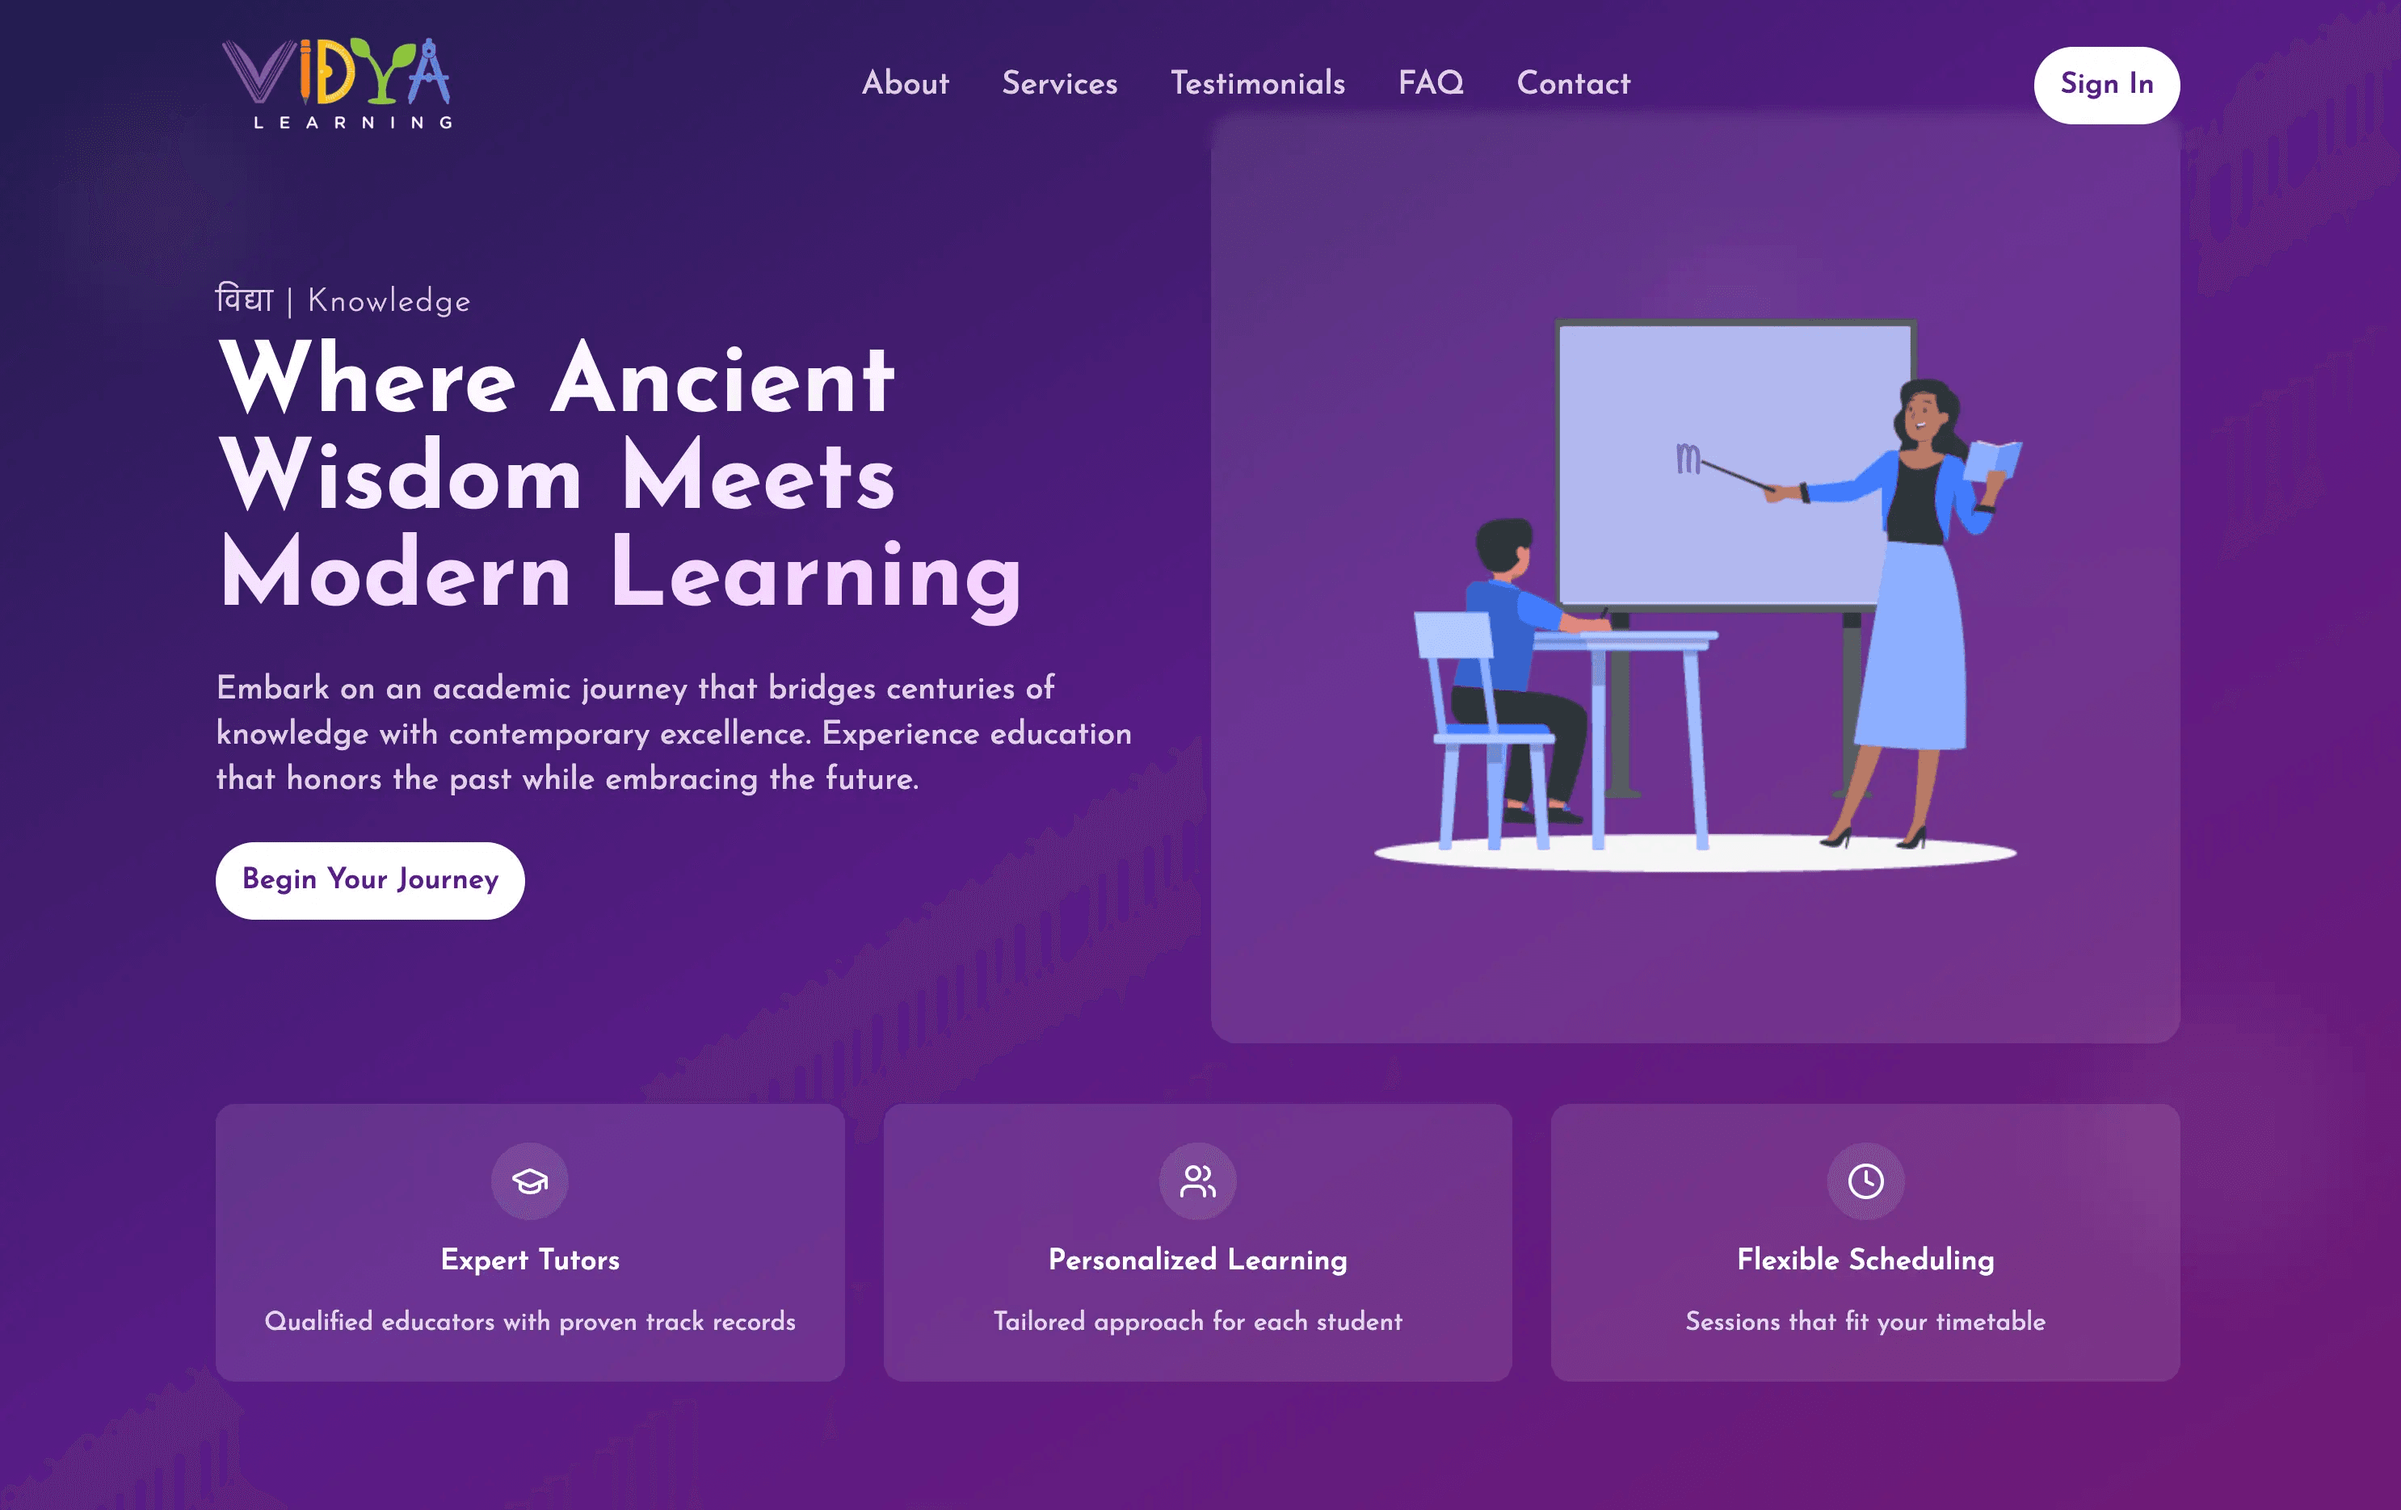
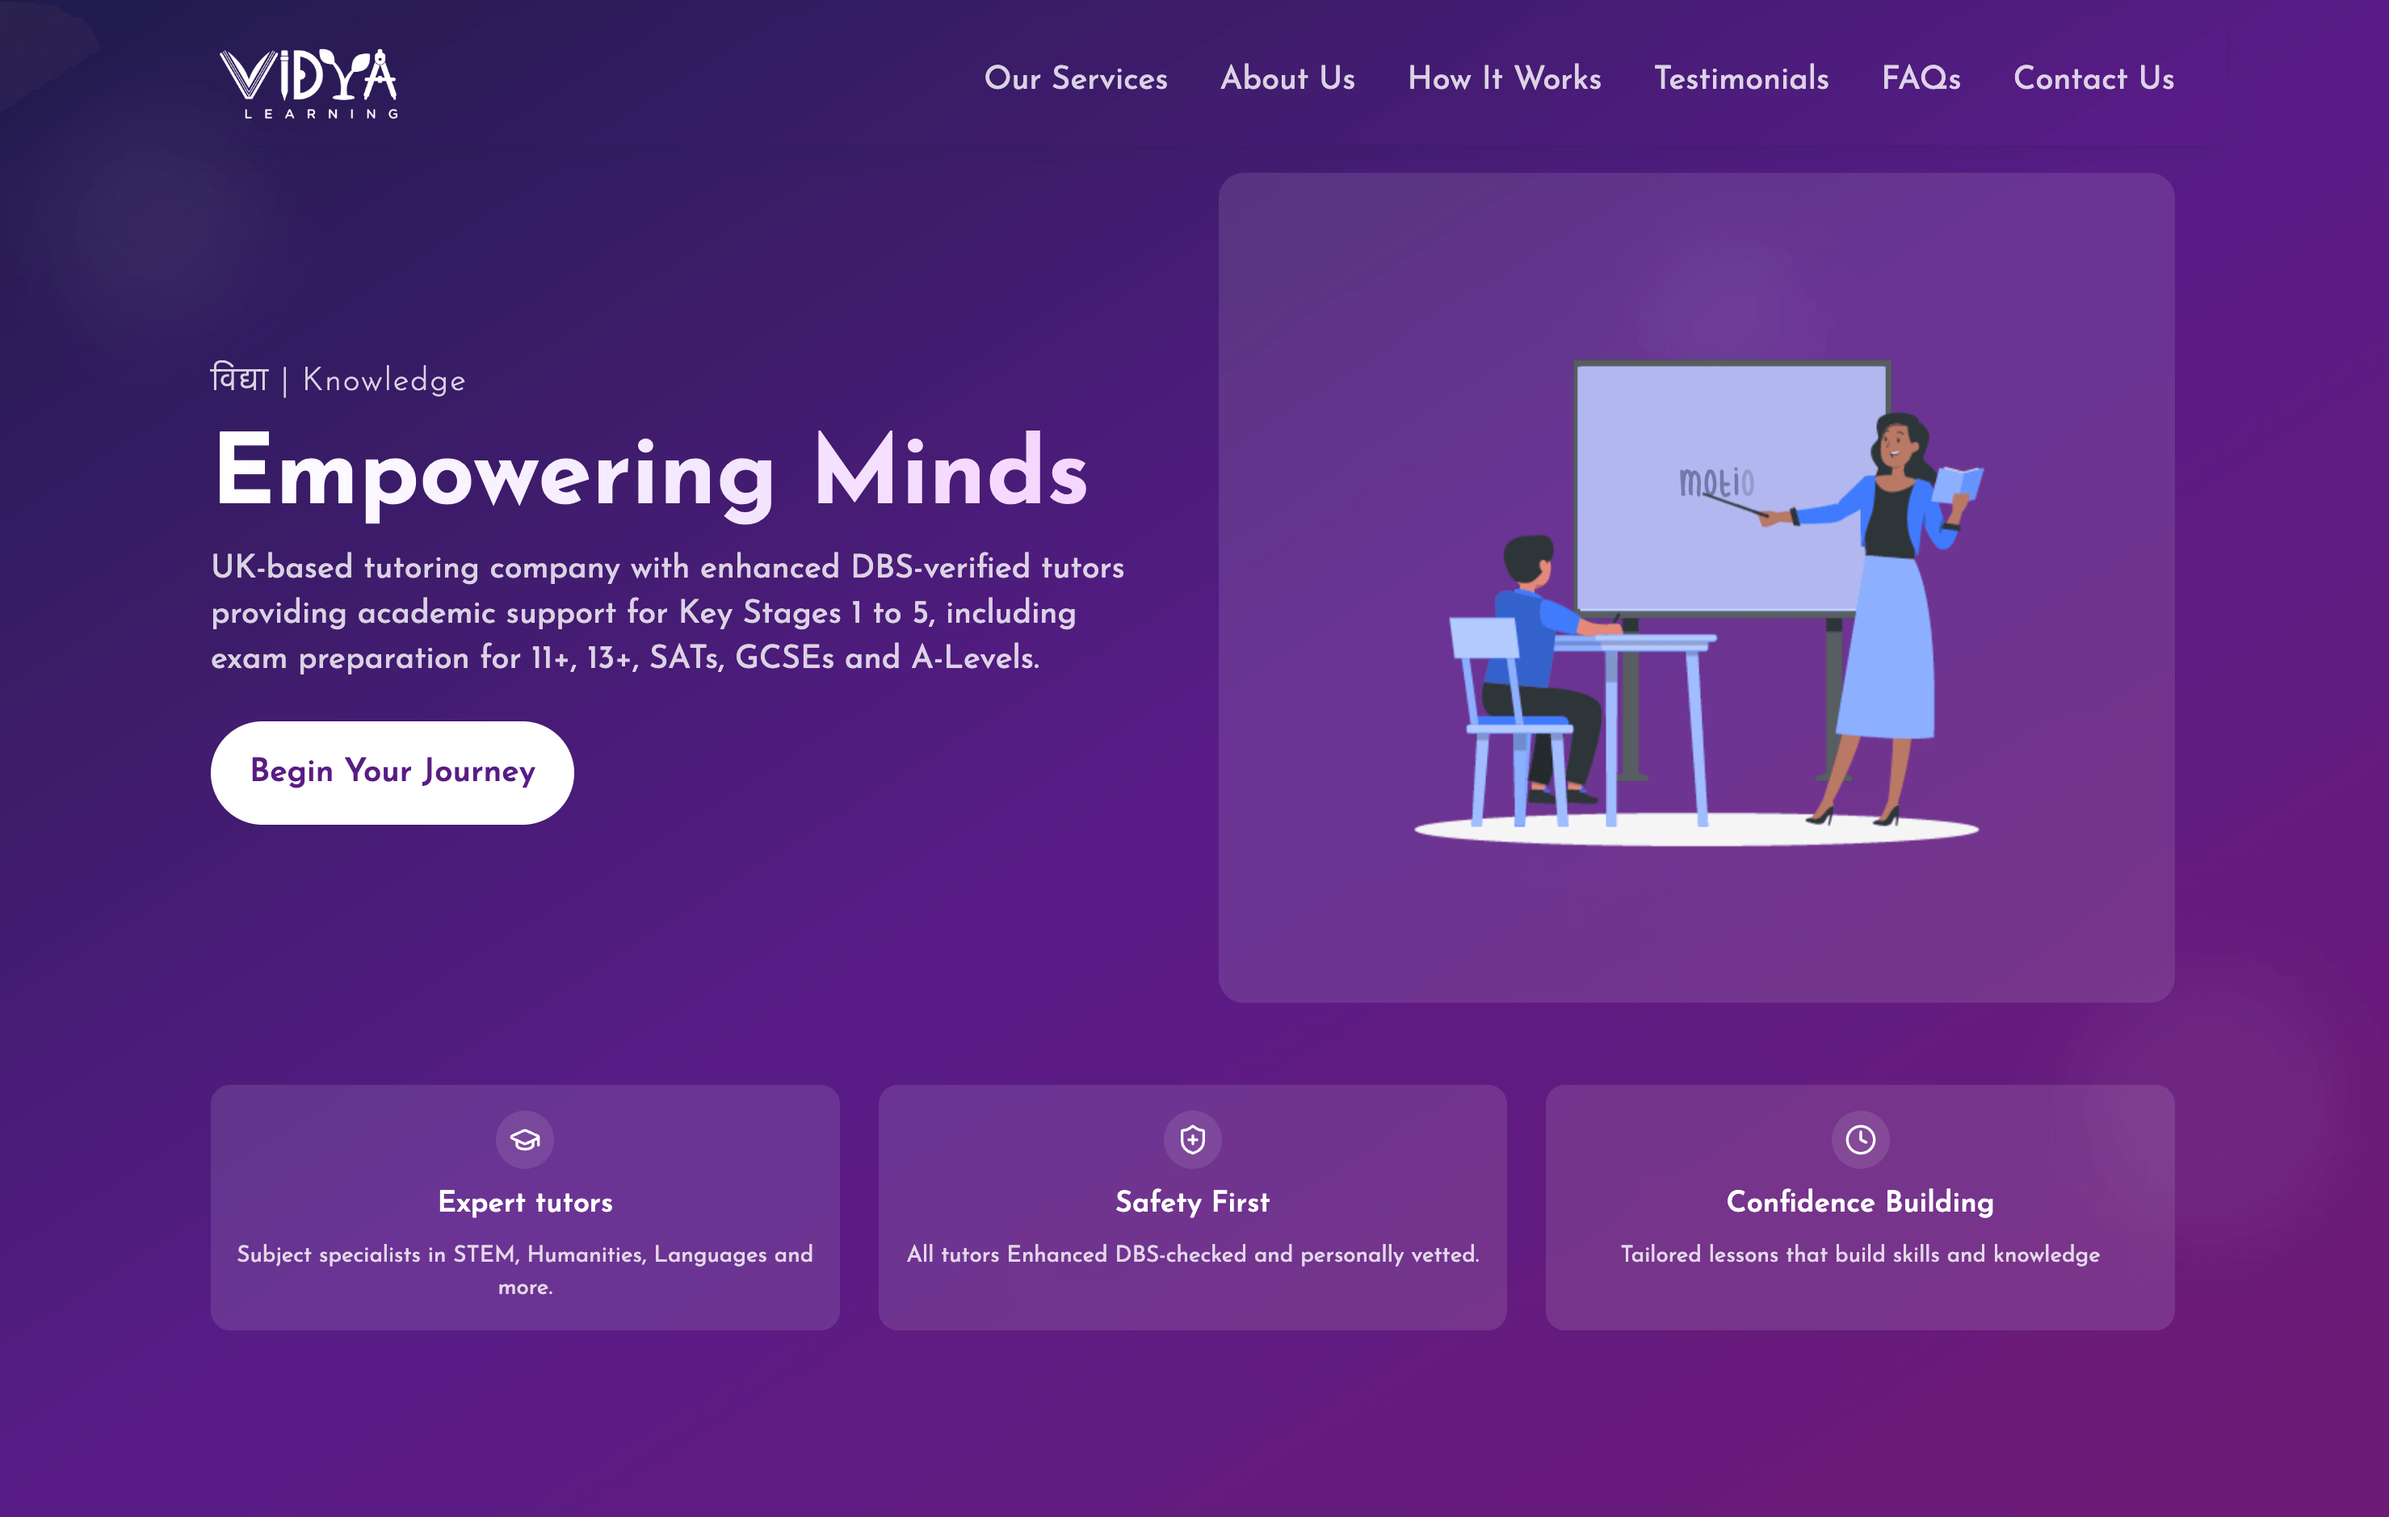
added new project, fixed testimonials

diff --git a/src/components/sections/Testimonials.tsx b/src/components/sections/Testimonials.tsx
@@ -39,7 +39,7 @@ const testimonials = [
     name: "David Martinez",
     role: "CEO, Vino Nero",
     content:
-      "Cromo Studios were absolutely fantastic! From start to finish, they went above and beyond to make sure everything was perfect. They kept me updated at every stage, ensuring I always knew what was happening. Their attention to detail and commitment to quality really stood out. The final product exceeded my expectations, and I couldn’t be happier with the results. Their professionalism, creativity, and dedication made the whole process smooth.",
+      "Cromo Studios were absolutely fantastic! From start to finish, they went above and beyond to make sure everything was perfect. They kept me updated at every stage, ensuring I always knew what was happening. Their attention to detail and commitment to quality really stood out. The final product exceeded my expectations, and I couldn't be happier with the results. Their professionalism, creativity, and dedication made the whole process smooth.",
   },
 ];
 
@@ -47,34 +47,41 @@ const TestimonialCard = ({
   testimonial,
 }: {
   testimonial: (typeof testimonials)[0];
-}) => (
-  <div className="group h-[280px] hover:h-auto transition-[height] duration-500 ease-in-out border-2 border-white/10 hover:border-white/20 rounded-xl p-6 bg-black flex flex-col">
-    <div className="w-5 h-5 flex-shrink-0 mb-4">
-      <Quote className="w-full h-full text-white/20" />
-    </div>
-    <div className="relative flex-1 min-h-0">
-      <div className="relative h-full">
-        <p className="text-white/70 text-sm leading-relaxed line-clamp-6 group-hover:line-clamp-none">
-          {testimonial.content}
-        </p>
-        <div className="absolute bottom-0 left-0 right-0 h-24 bg-gradient-to-t from-black to-transparent group-hover:opacity-0 transition-opacity duration-500" />
+}) => {
+  const [isExpanded, setIsExpanded] = useState(false);
+
+  return (
+    <div
+      onClick={() => setIsExpanded(!isExpanded)}
+      className={`group h-[280px] ${isExpanded ? 'h-auto' : ''} transition-[height] duration-500 ease-in-out border-2 border-white/10 hover:border-white/20 rounded-xl p-6 bg-black flex flex-col cursor-pointer`}
+    >
+      <div className="w-5 h-5 flex-shrink-0 mb-4">
+        <Quote className="w-full h-full text-white/20" />
+      </div>
+      <div className="relative flex-1 min-h-0">
+        <div className="relative h-full">
+          <p className={`text-white/70 text-sm leading-relaxed ${isExpanded ? 'line-clamp-none' : 'line-clamp-6'}`}>
+            {testimonial.content}
+          </p>
+          <div className={`absolute bottom-0 left-0 right-0 h-24 bg-gradient-to-t from-black to-transparent transition-opacity duration-500 ${isExpanded ? 'opacity-0' : 'opacity-100'}`} />
+        </div>
+      </div>
+      <div className="flex items-center gap-3 mt-6">
+        <div className="w-[2px] h-4 bg-white/10" />
+        <div>
+          <h4 className="text-white/90 font-medium text-sm">
+            {testimonial.name}
+          </h4>
+          <p className="text-white/40 text-xs">{testimonial.role}</p>
+        </div>
       </div>
     </div>
-    <div className="flex items-center gap-3 mt-6">
-      <div className="w-[2px] h-4 bg-white/10" />
-      <div>
-        <h4 className="text-white/90 font-medium text-sm">
-          {testimonial.name}
-        </h4>
-        <p className="text-white/40 text-xs">{testimonial.role}</p>
-      </div>
-    </div>
-  </div>
-);
+  );
+};
 
 const Testimonials = () => {
   const [[page, direction], setPage] = useState([0, 0]);
-  const itemsPerPage = 3;
+  const itemsPerPage = window.innerWidth < 768 ? 1 : 3;
   const totalPages = Math.ceil(testimonials.length / itemsPerPage);
 
   const paginate = (newDirection: number) => {
@@ -130,14 +137,14 @@ const Testimonials = () => {
         >
           <div className="flex items-center gap-2 mb-4">
             <div className="h-px w-8 bg-white/20"></div>
-            <span className="text-white/50 uppercase tracking-wider text-sm font-medium">
+            <span className="text-white/50 uppercase tracking-wider text-xs sm:text-sm font-medium">
               Testimonials
             </span>
           </div>
-          <h2 className="text-5xl font-bold text-white mb-6 tracking-tight">
+          <h2 className="text-3xl sm:text-4xl md:text-5xl font-bold text-white mb-4 sm:mb-6 tracking-tight">
             Client Success Stories
           </h2>
-          <p className="text-white/70 text-lg">
+          <p className="text-white/70 text-base sm:text-lg">
             Don&apos;t just take our word for it. Here&apos;s what our clients
             have to say about working with us.
           </p>
@@ -164,7 +171,7 @@ const Testimonials = () => {
                   x: { type: "spring", stiffness: 300, damping: 30 },
                   opacity: { duration: 0.2 },
                 }}
-                className="absolute w-full grid grid-cols-1 md:grid-cols-3 gap-6"
+                className="absolute w-full grid grid-cols-1 md:grid-cols-3 gap-4 sm:gap-6"
                 drag="x"
                 dragConstraints={{ left: 0, right: 0 }}
                 dragElastic={1}
@@ -188,26 +195,25 @@ const Testimonials = () => {
           </div>
 
           {/* Navigation */}
-          <div className="flex justify-center items-center gap-8 mt-12">
+          <div className="flex justify-center items-center gap-4 sm:gap-8 mt-8 sm:mt-12">
             <button
               onClick={() => paginate(-1)}
               disabled={page === 0}
-              className="p-2 rounded-full border-2 border-white/10 hover:border-white/20 disabled:opacity-50 disabled:cursor-not-allowed transition-all duration-300"
+              className="p-1.5 sm:p-2 rounded-full border-2 border-white/10 hover:border-white/20 disabled:opacity-50 disabled:cursor-not-allowed transition-all duration-300"
               aria-label="Previous testimonials"
             >
-              <ChevronLeft className="w-5 h-5 text-white/70" />
+              <ChevronLeft className="w-4 h-4 sm:w-5 sm:h-5 text-white/70" />
             </button>
 
-            <div className="flex gap-2">
+            <div className="flex gap-1.5 sm:gap-2">
               {[...Array(totalPages)].map((_, index) => (
                 <button
                   key={index}
                   onClick={() => setPage([index, index > page ? 1 : -1])}
-                  className={`w-2 h-2 rounded-full transition-all duration-300 ${
-                    index === page
-                      ? "bg-white/70 w-6"
-                      : "bg-white/20 hover:bg-white/40"
-                  }`}
+                  className={`w-1.5 sm:w-2 h-1.5 sm:h-2 rounded-full transition-all duration-300 ${index === page
+                    ? "bg-white/70 w-4 sm:w-6"
+                    : "bg-white/20 hover:bg-white/40"
+                    }`}
                   aria-label={`Go to testimonial page ${index + 1}`}
                 />
               ))}
@@ -216,10 +222,10 @@ const Testimonials = () => {
             <button
               onClick={() => paginate(1)}
               disabled={page === totalPages - 1}
-              className="p-2 rounded-full border-2 border-white/10 hover:border-white/20 disabled:opacity-50 disabled:cursor-not-allowed transition-all duration-300"
+              className="p-1.5 sm:p-2 rounded-full border-2 border-white/10 hover:border-white/20 disabled:opacity-50 disabled:cursor-not-allowed transition-all duration-300"
               aria-label="Next testimonials"
             >
-              <ChevronRight className="w-5 h-5 text-white/70" />
+              <ChevronRight className="w-4 h-4 sm:w-5 sm:h-5 text-white/70" />
             </button>
           </div>
         </div>

diff --git a/src/components/sections/Portfolio.tsx b/src/components/sections/Portfolio.tsx
@@ -22,16 +22,16 @@ const projects = [
     image: "/portfolio/vidyalearning.png",
     altText: "Vidya Learning Platform - Online Tutoring Website",
     tags: ["Next.js", "Tailwind CSS", "Supabase", "Framer Motion"],
-    liveUrl: "https://vidya-learning-red.vercel.app/",
+    liveUrl: "https://www.vidyalearning.co.uk/",
   },
   {
-    title: "Childcare Website & Management System",
+    title: "Mentorship App Showcase ",
     description:
-      "A childcare website and management system built with Next.js and Tailwind CSS. Features include user authentication, database management, and a dashboard for managing children and staff.",
-    image: "/portfolio/kidshive.png",
-    altText: "Kids Hive - Childcare Management System and Website",
-    tags: ["Next.js", "DaisyUI", "MongoDB", "Resend"],
-    liveUrl: "https://kidshive.co.uk/",
+      "A website built to showcase the features and gain traction for a mentorship and career development app.",
+    image: "/portfolio/globalpurposeenterprise.png",
+    altText: "Global Purpose Enterprise - Mentorship & Career Development",
+    tags: ["Next.js", "Tailwind CSS", "Resend", "Framer Motion"],
+    liveUrl: "https://www.globalpurposeenterprise.com",
   },
   {
     title: "Citizenship & Residency Website",
@@ -42,6 +42,16 @@ const projects = [
     tags: ["Next.js", "DaisyUI", "Framer Motion", "Resend"],
     liveUrl: "https://windsorcm.com",
   },
+  {
+    title: "Childcare Website & Management System",
+    description:
+      "A childcare website and management system built with Next.js and Tailwind CSS. Features include user authentication, database management, and a dashboard for managing children and staff.",
+    image: "/portfolio/kidshive.png",
+    altText: "Kids Hive - Childcare Management System and Website",
+    tags: ["Next.js", "DaisyUI", "MongoDB", "Resend"],
+    liveUrl: "https://kidshive.co.uk/",
+  },
+
 ];
 
 export default function Portfolio() {
@@ -87,7 +97,12 @@ export default function Portfolio() {
               className="group w-full"
             >
               {/* Project Image */}
-              <div className="relative aspect-[4/3] rounded-2xl overflow-hidden mb-8 bg-white/5">
+              <a
+                href={project.liveUrl}
+                target="_blank"
+                rel="noopener noreferrer"
+                className="block relative aspect-[4/3] rounded-2xl overflow-hidden mb-8 bg-white/5 cursor-pointer group-hover:opacity-90 transition-opacity"
+              >
                 <div className="absolute inset-0 bg-gradient-to-t from-black/90 via-black/50 to-transparent z-10" />
                 <Image
                   src={project.image}
@@ -98,7 +113,7 @@ export default function Portfolio() {
                   loading="lazy"
                   quality={90}
                 />
-              </div>
+              </a>
 
               {/* Project Info */}
               <div className="space-y-4">
